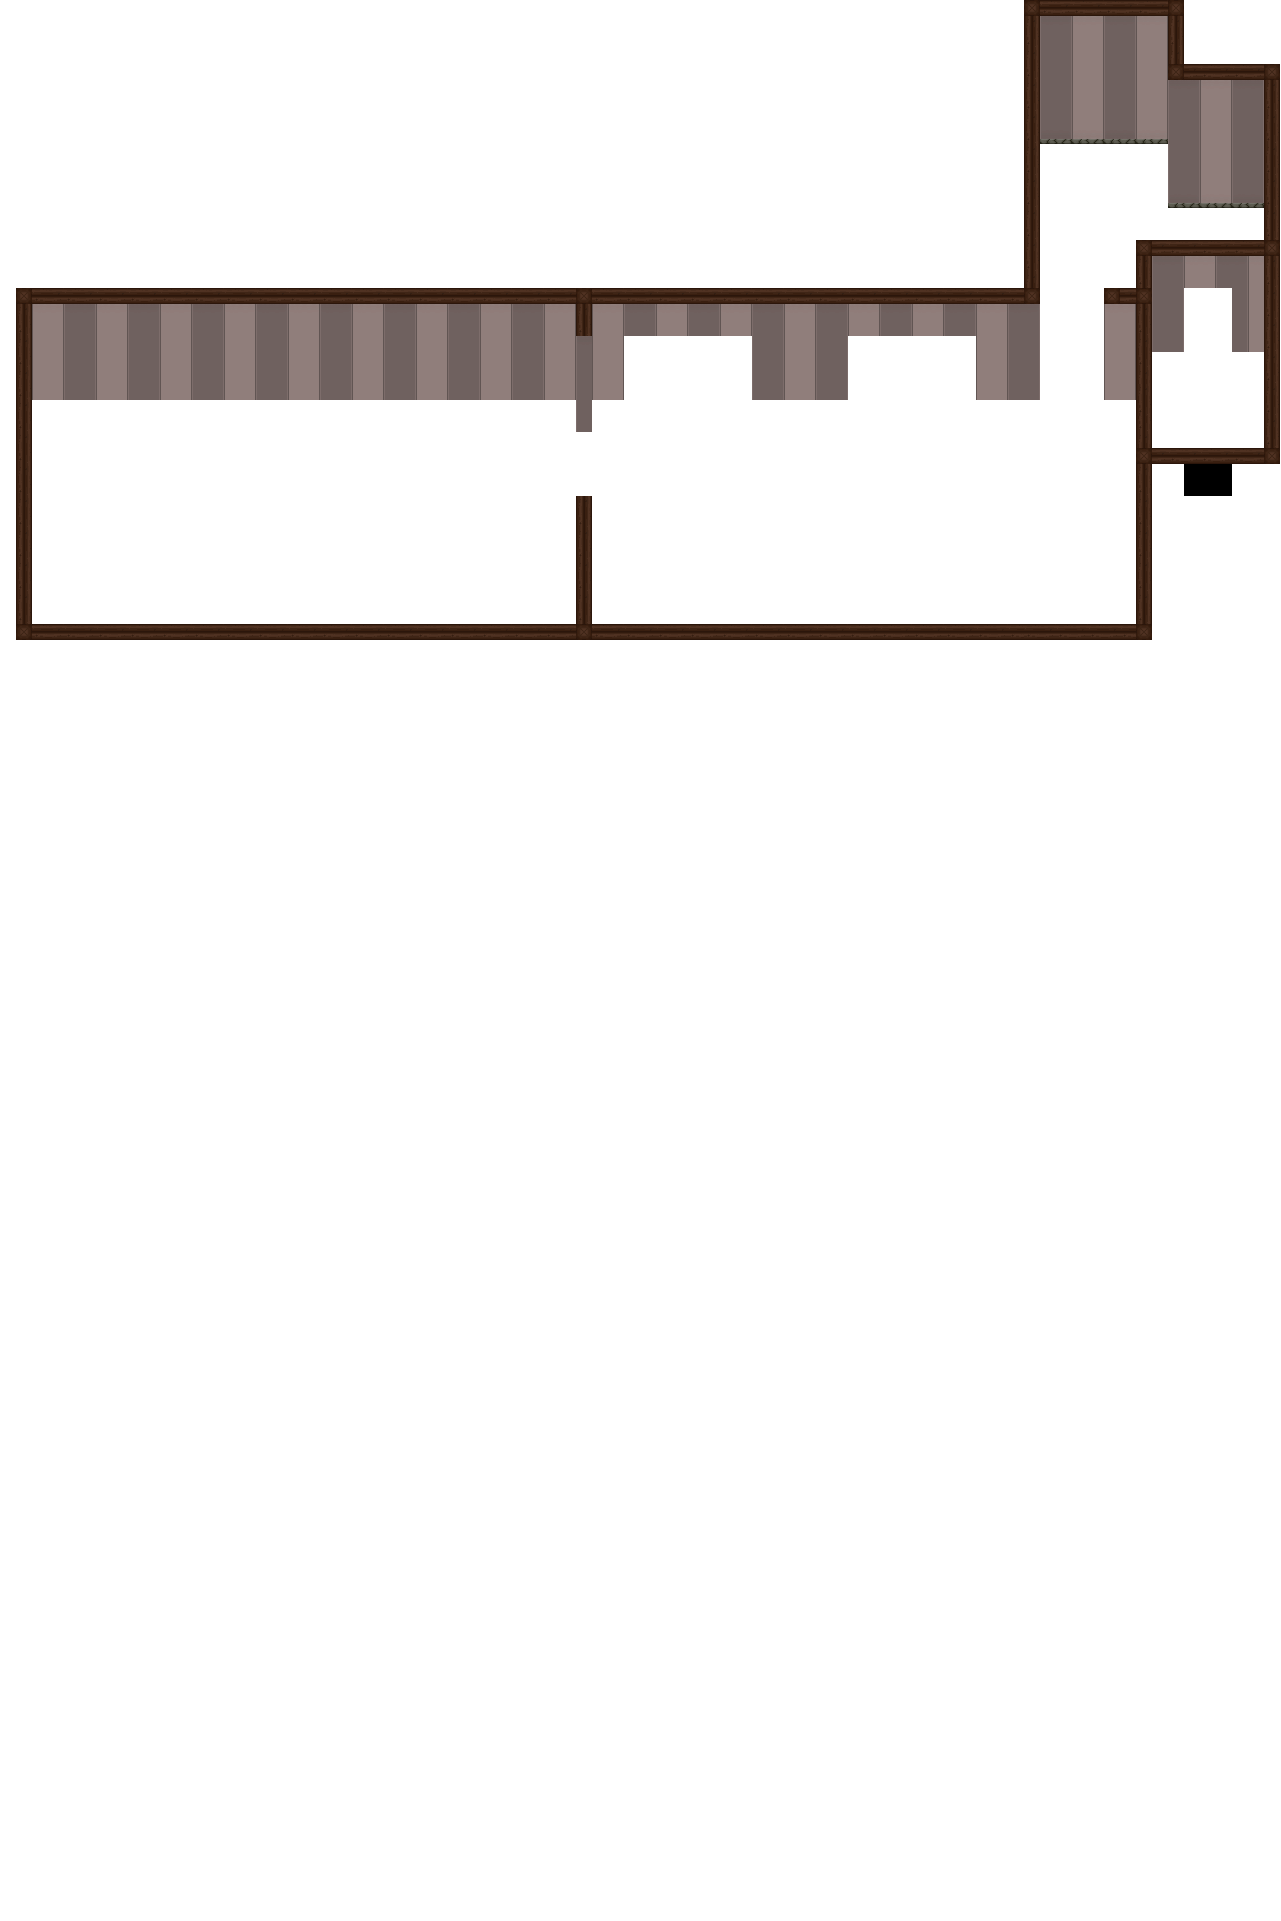
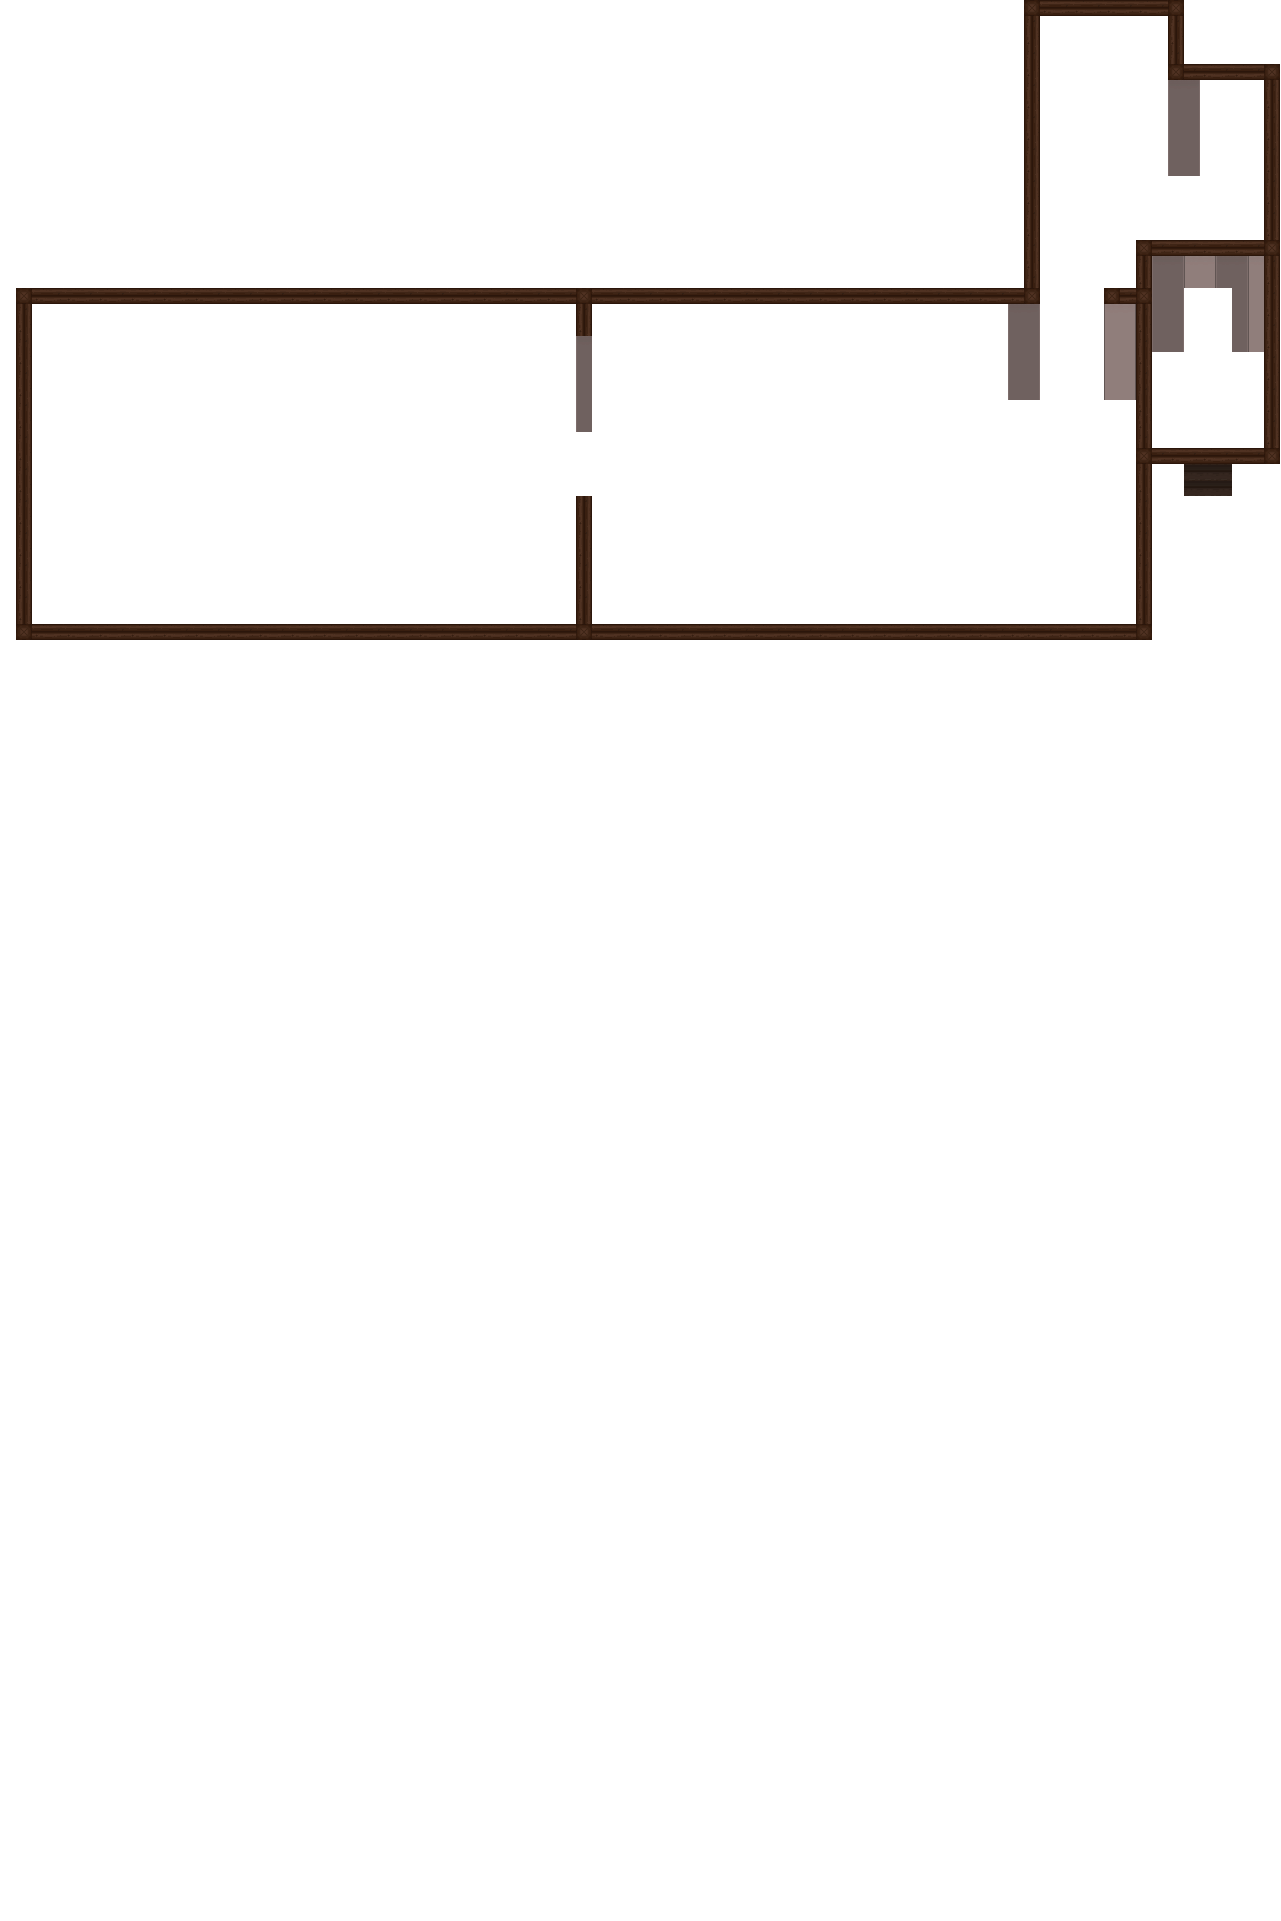
feat: added corners right visual depth

Changed region(s): [[0.0, 0.1562, 0.8119, 0.2186], [0.8119, 0.0, 0.9992, 0.1249], [0.9055, 0.2186, 0.968, 0.2811]]

diff --git a/src/phaser/scenes/GameScene.ts b/src/phaser/scenes/GameScene.ts
@@ -4,17 +4,15 @@ import { InventoryManager } from "../core/inventory";
 import { Hero } from "../gameObjects";
 import { CharacterGameObject } from "../gameObjects/common/CharacterGameObject";
 import { Spider, Wisp } from "../gameObjects/NPCs/enemies";
-import { Button, Chest, Door, Pot } from "../gameObjects/objects";
+import { Button, Chest, Corner, Door, Pot } from "../gameObjects/objects";
 import {
   ASSET_KEYS,
-  CHARACTER_STATES,
   CHEST_REWARD_TO_DIALOG_MAP,
   CHEST_REWARD_TO_TEXTURE_FRAME,
   DEPTH_UP,
   DIRECTIONS,
   ENABLE_DEBUGGING,
   HERO_START_MAX_HEALTH,
-  LEVEL_NAME,
   ROOM_TRANSITION_CAMERA_ANIMATION_DELAY,
   ROOM_TRANSITION_CAMERA_ANIMATION_DURATION,
   ROOM_TRANSITION_PLAYER_INTO_HALL_DELAY,
@@ -35,6 +33,7 @@ import {
 import {
   getAllLayerNamesWithPrefix,
   getTiledChestObjectsFromMap,
+  getTiledCornerObjectsFromMap,
   getTiledDoorObjectsFromMap,
   getTiledEnemyObjectsFromMap,
   getTiledPotObjectsFromMap,
@@ -66,6 +65,7 @@ export class GameScene extends Phaser.Scene {
       chests: Chest[];
       enemyGroup?: Phaser.GameObjects.Group;
       room: TiledRoomObject;
+      corners: Corner[];
     };
   };
   #collisionLayer!: Phaser.Tilemaps.TilemapLayer;
@@ -482,6 +482,9 @@ export class GameScene extends Phaser.Scene {
     const enemyLayerNames = rooms.filter((layer) =>
       layer.name.endsWith(`/${TILED_LAYER_NAMES.ENEMIES}`)
     );
+    const cornerLayerNames = rooms.filter((layer) =>
+      layer.name.endsWith(`/${TILED_LAYER_NAMES.CORNERS}`)
+    );
 
     switchLayerNames.forEach((layer) =>
       this.#createButtons(map, layer.name, layer.roomCode)
@@ -498,6 +501,9 @@ export class GameScene extends Phaser.Scene {
     // enemyLayerNames.forEach((layer) =>
     //   this.#createEnemies(map, layer.name, layer.roomCode)
     // );
+    cornerLayerNames.forEach((layer) =>
+      this.#createCorners(map, layer.name, layer.roomCode)
+    );
   }
 
   #setupCamera(): void {
@@ -579,6 +585,7 @@ export class GameScene extends Phaser.Scene {
         room: tiledObject,
         chestMap: {},
         doorMap: {},
+        corners: [],
       };
     });
   }
@@ -670,6 +677,19 @@ export class GameScene extends Phaser.Scene {
           chest.open();
         }
       }
+    });
+  }
+
+  #createCorners(
+    map: Phaser.Tilemaps.Tilemap,
+    layerName: string,
+    roomCode: RoomCodes
+  ): void {
+    const validTiledObjects = getTiledCornerObjectsFromMap(map, layerName);
+    validTiledObjects.forEach((tiledObject) => {
+      const corner = new Corner(this, tiledObject);
+      this.#objectsByRoomCode[roomCode].corners.push(corner);
+      this.#blockingGroup.add(corner);
     });
   }
 

diff --git a/src/phaser/shared/tiled/tiled-utils.ts b/src/phaser/shared/tiled/tiled-utils.ts
@@ -7,6 +7,7 @@ import {
   type SwitchAction,
   type SwitchTexture,
   type TiledChestObject,
+  type TiledCornerObject,
   type TiledDoorObject,
   type TiledEnemyObject,
   type TiledObjectProperty,
@@ -291,6 +292,29 @@ export function getTiledPotObjectsFromMap(
   });
 
   return potObjects;
+}
+
+/**
+ * Finds all of the valid 'Corner' Tiled Objects on a given layer of a Tilemap.
+ */
+export function getTiledCornerObjectsFromMap(
+  map: Phaser.Tilemaps.Tilemap,
+  layerName: string
+): TiledCornerObject[] {
+  const cornerObjects: TiledCornerObject[] = [];
+
+  // loop through each object and validate object has properties for the object we are planning to build
+  const tiledObjects = getTiledObjectsFromLayer(map, layerName);
+  tiledObjects.forEach((tiledObject) => {
+    cornerObjects.push({
+      x: tiledObject.x,
+      y: tiledObject.y,
+      width: tiledObject.width,
+      height: tiledObject.height,
+    });
+  });
+
+  return cornerObjects;
 }
 
 /**

diff --git a/src/phaser/gameObjects/objects/Corner.ts b/src/phaser/gameObjects/objects/Corner.ts
@@ -1,0 +1,15 @@
+import { ASSET_KEYS } from "../../shared/consts";
+import type { TiledCornerObject } from "../../shared/tiled/types";
+import { getVisualBottomY } from "../../shared/utils";
+
+export class Corner extends Phaser.Physics.Arcade.Image {
+  constructor(scene: Phaser.Scene, config: TiledCornerObject) {
+    super(scene, config.x, config.y, ASSET_KEYS.CORNER_32);
+
+    scene.add.existing(this);
+    scene.physics.add.existing(this);
+    this.setOrigin(0, 1).setImmovable(true);
+
+    this.setDepth(getVisualBottomY(this));
+  }
+}

diff --git a/src/phaser/shared/tiled/common.ts b/src/phaser/shared/tiled/common.ts
@@ -11,10 +11,12 @@ export const TILED_LAYER_NAMES = {
   ENEMIES: "enemies",
   COLLISION: "collision",
   ENEMY_COLLISION: "enemy_collision",
+  CORNERS: "corners",
 } as const;
 
 export const TILED_TILESET_NAMES = {
   COLLISION: "collision",
+  CORNER_32: "corner32",
 } as const;
 
 export const DOOR_TYPE = {

diff --git a/src/phaser/shared/consts.ts b/src/phaser/shared/consts.ts
@@ -34,6 +34,7 @@ export const ASSET_KEYS = {
   DOOR: "DOOR",
   BUTTON: "BUTTON",
   COLLISION: "COLLISION",
+  CORNER_32: "CORNER_32",
   HOUSE_1_LEVEL: "HOUSE_1_LEVEL",
   HOUSE_1_BACKGROUND: "HOUSE_1_BACKGROUND",
   HOUSE_1_BACKGROUND_DYNAMIC: "HOUSE_1_BACKGROUND_DYNAMIC",

diff --git a/src/phaser/shared/tiled/types.ts b/src/phaser/shared/tiled/types.ts
@@ -47,6 +47,8 @@ export type TrapType = keyof typeof TRAP_TYPE;
 
 export type TiledPotObject = TiledObject;
 
+export type TiledCornerObject = TiledObject;
+
 export type TiledChestObject = {
   contents: ChestReward;
   id: number;

diff --git a/src/phaser/gameObjects/objects/index.ts b/src/phaser/gameObjects/objects/index.ts
@@ -2,3 +2,4 @@ export * from "./Pot";
 export * from "./Chest";
 export * from "./Door";
 export * from "./Button";
+export * from "./Corner";
